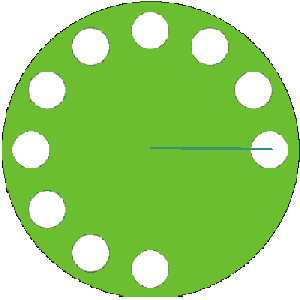
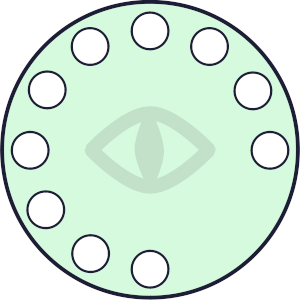
frt(Phone): draw new textures

diff --git a/ldjam-60-devilsPhone/src/game/Phone.js b/ldjam-60-devilsPhone/src/game/Phone.js
@@ -70,8 +70,7 @@ export default class Phone {
     me._pointer = Here._.input.activePointer;
 
     me._background = Here._.add
-      .image(0, 0, "phoneBack")
-      .setScale(1.2)
+      .image(10, -43, "phoneBack")
       .setDepth(Consts.Depth.PhoneBack);
 
     me._frontSprite = Here._.add
